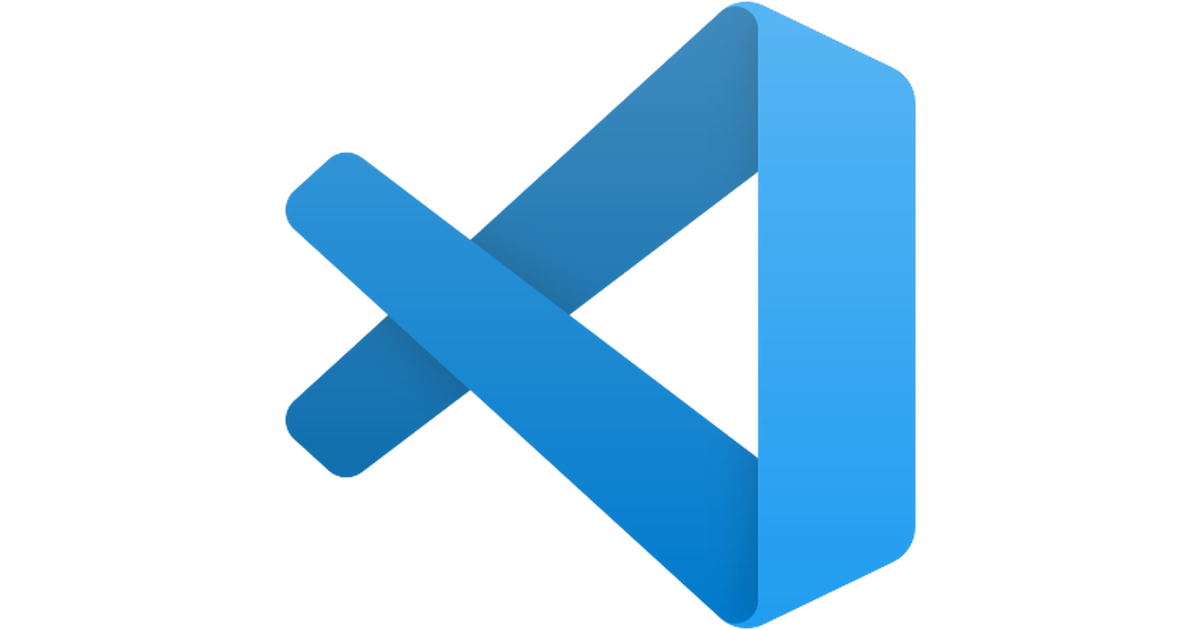
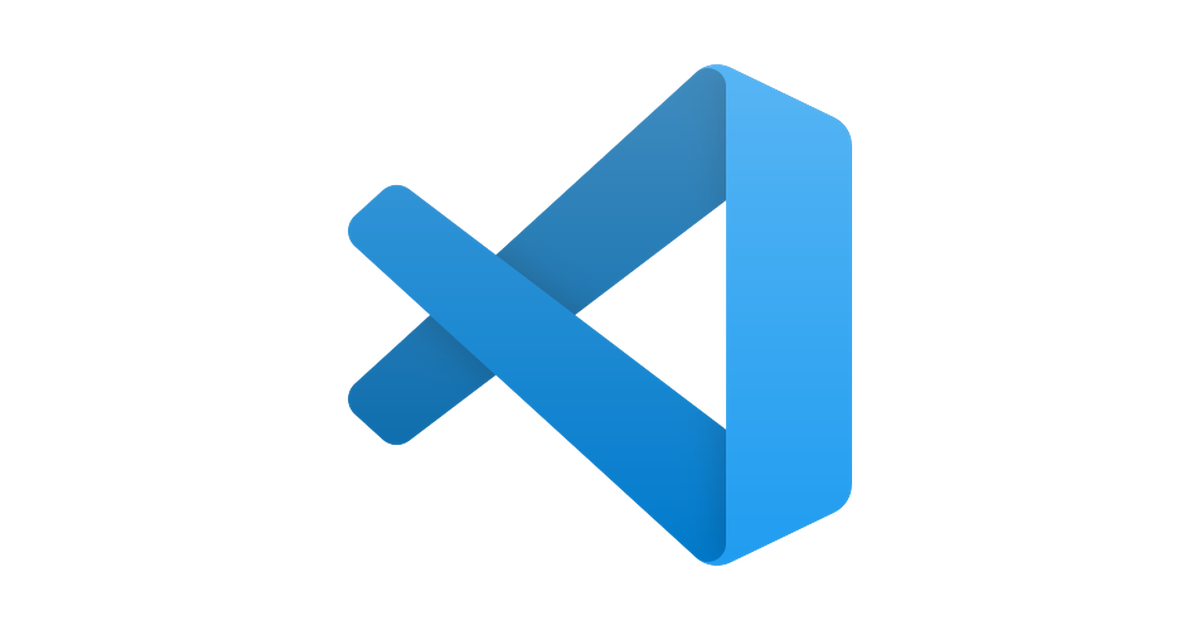
fix: Updated `vscode.png` images dailydevops/website@88256999e9c722867aa7fb56312c9cd134d8630b

diff --git a/tags/vscode/index.html b/tags/vscode/index.html
@@ -1,2 +1,2 @@
-<!doctype html><html class="no-js" lang="en" dir="ltr"><head><meta charset="utf-8"><meta name="viewport" content="width=device-width,initial-scale=1"><meta name="theme-color" content="#15a"><title>Visual Studio Code — Daily DevOps & .NET</title><meta name="description" content="Visual Studio Code"><meta name="twitter:description" property="og:description" content="Visual Studio Code"><meta name="author" content="Daily DevOps"><link rel="icon" href="/logo.svg?v=b9e294dc5c6fa04439c8c803d8e981a9" sizes="any" type="image/svg+xml"><meta name="twitter:title" property="og:title" content="Visual Studio Code — Daily DevOps & .NET"><meta property="og:updated_time" content="2024-12-31T09:35:40+01:00"><meta property="article:modified_time" content="2024-12-31T09:35:40+01:00"><meta property="article:published_time" content="0001-01-01T00:00:00+00:00"><meta property="og:type" content="website"><meta property="og:site_name" content="Daily DevOps & .NET"><meta property="og:url" content="https://daily-devops.net/tags/vscode/"><meta property="og:locale" content="en_US"><meta name="twitter:card" content="summary_large_image"><meta property="og:image" name="twitter:image" content="https://daily-devops.net/images/vscode-1200x630.webp?v=24eac99e39ead37852844e5aeb1904d0"><meta property="og:image:secure_url" content="https://daily-devops.net/images/vscode-1200x630.webp?v=24eac99e39ead37852844e5aeb1904d0"><meta property="og:image:alt" name="twitter:image:alt" content="Visual Studio Code"><meta property="og:image:type" content="image/webp"><meta property="og:image:width" content="1200"><meta property="og:image:height" content="630"><meta property="og:image" name="twitter:image" content="https://daily-devops.net/images/vscode-1200x630.png?v=5538608e404fa428fa1f766580a8c99a"><meta property="og:image:secure_url" content="https://daily-devops.net/images/vscode-1200x630.png?v=5538608e404fa428fa1f766580a8c99a"><meta property="og:image:alt" name="twitter:image:alt" content="Visual Studio Code"><meta property="og:image:type" content="image/png"><meta property="og:image:width" content="1200"><meta property="og:image:height" content="630"><link rel="dns-prefetch" href="https://www.clarity.ms"><link rel="preconnect" href="https://www.clarity.ms" crossorigin><link rel="stylesheet" href="/css/style.min.bd3384c8856830ca9acea97c7aaad6cea2adc40b13c05131543af7ba35a9ef54e279811d27ca92f7acd5086f2e54461b78445d6fa3e9b151f91613876066f037.css" integrity="sha512-vTOEyIVoMMqazql8eqrWzqKtxAsTwFExVDr3ujWp71TieYEdJ8qS96zVCG8uVEYbeERdb6PpsVH5FhOHYGbwNw==" crossorigin="anonymous"><link rel="alternate" href='https://daily-devops.net/tags/vscode/' hreflang="x-default" title="Visual Studio Code &mdash; Daily DevOps & .NET"><link rel="alternate" href="https://daily-devops.net/en/tags/vscode/" hreflang="en-us" title="Visual Studio Code &mdash; Daily DevOps & .NET"><link rel="alternate" href="https://daily-devops.net/de/tags/vscode/" hreflang="en-us" title="Visual Studio Code &mdash; Daily DevOps & .NET"><link rel="canonical" href="https://daily-devops.net/tags/vscode/" hreflang="en-us" title="Visual Studio Code &mdash; Daily DevOps & .NET"><link rel="home" href="https://daily-devops.net/" hreflang="en-us" title="Daily DevOps & .NET"><script defer src="/js/above.min.cb42b2c9a453e49e278326637d72d2f01e7f32e3f91e9cdde8fb587793d05514efd2f5cc5021c9658ca0f73876dbdcd1f7cb4a37c0bebc9df01110926b6d7cba.js" integrity="sha512-y0KyyaRT5J4ngyZjfXLS8B5/MuP5Hpzd6PtYd5PQVRTv0vXMUCHJZYyg9zh229zR98tKN8C+vJ3wERCSa218ug==" crossorigin="anonymous"></script><script type="text/javascript">(function(e,t,n,s,o,i,a){e[n]=e[n]||function(){(e[n].q=e[n].q||[]).push(arguments)},i=t.createElement(s),i.async=1,i.src="https://www.clarity.ms/tag/"+o,a=t.getElementsByTagName(s)[0],a.parentNode.insertBefore(i,a)})(window,document,"clarity","script","o0pr4n9gg3")</script></head><body class="container"><header class="header"><a class="logo" href="/" title="Daily DevOps & .NET" rel="home"><figure class="page-logo"><picture><img src="/logo.svg?v=b9e294dc5c6fa04439c8c803d8e981a9" alt="Daily DevOps & .NET" title="Daily DevOps & .NET"></picture></figure><span class="title">Daily DevOps & .NET</span></a><nav class="menu"><button class="burger" aria-haspopup="true" aria-expanded="false" tabindex="0">
+<!doctype html><html class="no-js" lang="en" dir="ltr"><head><meta charset="utf-8"><meta name="viewport" content="width=device-width,initial-scale=1"><meta name="theme-color" content="#15a"><title>Visual Studio Code — Daily DevOps & .NET</title><meta name="description" content="Visual Studio Code"><meta name="twitter:description" property="og:description" content="Visual Studio Code"><meta name="author" content="Daily DevOps"><link rel="icon" href="/logo.svg?v=b9e294dc5c6fa04439c8c803d8e981a9" sizes="any" type="image/svg+xml"><meta name="twitter:title" property="og:title" content="Visual Studio Code — Daily DevOps & .NET"><meta property="og:updated_time" content="2024-12-31T09:35:40+01:00"><meta property="article:modified_time" content="2024-12-31T09:35:40+01:00"><meta property="article:published_time" content="0001-01-01T00:00:00+00:00"><meta property="og:type" content="website"><meta property="og:site_name" content="Daily DevOps & .NET"><meta property="og:url" content="https://daily-devops.net/tags/vscode/"><meta property="og:locale" content="en_US"><meta name="twitter:card" content="summary_large_image"><meta property="og:image" name="twitter:image" content="https://daily-devops.net/images/vscode-1200x630.webp?v=9f182674aa617c9da5b2950abd7b9408"><meta property="og:image:secure_url" content="https://daily-devops.net/images/vscode-1200x630.webp?v=9f182674aa617c9da5b2950abd7b9408"><meta property="og:image:alt" name="twitter:image:alt" content="Visual Studio Code"><meta property="og:image:type" content="image/webp"><meta property="og:image:width" content="1200"><meta property="og:image:height" content="630"><meta property="og:image" name="twitter:image" content="https://daily-devops.net/images/vscode-1200x630.png?v=ad54321312c5741f0dd52d9980367ea1"><meta property="og:image:secure_url" content="https://daily-devops.net/images/vscode-1200x630.png?v=ad54321312c5741f0dd52d9980367ea1"><meta property="og:image:alt" name="twitter:image:alt" content="Visual Studio Code"><meta property="og:image:type" content="image/png"><meta property="og:image:width" content="1200"><meta property="og:image:height" content="630"><link rel="dns-prefetch" href="https://www.clarity.ms"><link rel="preconnect" href="https://www.clarity.ms" crossorigin><link rel="stylesheet" href="/css/style.min.bd3384c8856830ca9acea97c7aaad6cea2adc40b13c05131543af7ba35a9ef54e279811d27ca92f7acd5086f2e54461b78445d6fa3e9b151f91613876066f037.css" integrity="sha512-vTOEyIVoMMqazql8eqrWzqKtxAsTwFExVDr3ujWp71TieYEdJ8qS96zVCG8uVEYbeERdb6PpsVH5FhOHYGbwNw==" crossorigin="anonymous"><link rel="alternate" href='https://daily-devops.net/tags/vscode/' hreflang="x-default" title="Visual Studio Code &mdash; Daily DevOps & .NET"><link rel="alternate" href="https://daily-devops.net/en/tags/vscode/" hreflang="en-us" title="Visual Studio Code &mdash; Daily DevOps & .NET"><link rel="alternate" href="https://daily-devops.net/de/tags/vscode/" hreflang="en-us" title="Visual Studio Code &mdash; Daily DevOps & .NET"><link rel="canonical" href="https://daily-devops.net/tags/vscode/" hreflang="en-us" title="Visual Studio Code &mdash; Daily DevOps & .NET"><link rel="home" href="https://daily-devops.net/" hreflang="en-us" title="Daily DevOps & .NET"><script defer src="/js/above.min.cb42b2c9a453e49e278326637d72d2f01e7f32e3f91e9cdde8fb587793d05514efd2f5cc5021c9658ca0f73876dbdcd1f7cb4a37c0bebc9df01110926b6d7cba.js" integrity="sha512-y0KyyaRT5J4ngyZjfXLS8B5/MuP5Hpzd6PtYd5PQVRTv0vXMUCHJZYyg9zh229zR98tKN8C+vJ3wERCSa218ug==" crossorigin="anonymous"></script><script type="text/javascript">(function(e,t,n,s,o,i,a){e[n]=e[n]||function(){(e[n].q=e[n].q||[]).push(arguments)},i=t.createElement(s),i.async=1,i.src="https://www.clarity.ms/tag/"+o,a=t.getElementsByTagName(s)[0],a.parentNode.insertBefore(i,a)})(window,document,"clarity","script","o0pr4n9gg3")</script></head><body class="container"><header class="header"><a class="logo" href="/" title="Daily DevOps & .NET" rel="home"><figure class="page-logo"><picture><img src="/logo.svg?v=b9e294dc5c6fa04439c8c803d8e981a9" alt="Daily DevOps & .NET" title="Daily DevOps & .NET"></picture></figure><span class="title">Daily DevOps & .NET</span></a><nav class="menu"><button class="burger" aria-haspopup="true" aria-expanded="false" tabindex="0">
 <i class="fas fa-burger"></i></button><ul class="navigation"><li><a href="/posts/">Posts</a></li><li><a href="/authors/">About us</a></li></ul></nav><div class="divider"></div></header><main class="body"><main class="board" role="main"><header><h1>Visual Studio Code</h1></header></main></main><footer class="footer"><div class="divider"></div><nav><ul class="navigation"><li><a href="/tags/">Tags</a></li><li><a href="/legal-notice/">Legal notice</a></li></ul></nav><div class="copyright">&copy; 2023 - 2025 Daily DevOps & .NET</div></footer><script defer src="/js/below.min.a6ce9164454b6077f17ae856f280442d9f3a1e21f06189f71c21f75144b22a0c8cf32bafd61d440e9d90ca02bf738b6a8ef19f5ec20285d8ca574f98c91ebaf2.js" integrity="sha512-ps6RZEVLYHfxeuhW8oBELZ86HiHwYYn3HCH3UUSyKgyM8yuv1h1EDp2QygK/c4tqjvGfXsIChdjKV0+YyR668g==" crossorigin="anonymous"></script></body></html>

diff --git a/tags/3/index.html b/tags/3/index.html
@@ -1,4 +1,4 @@
 <!doctype html><html class="no-js" lang="en" dir="ltr"><head><meta charset="utf-8"><meta name="viewport" content="width=device-width,initial-scale=1"><meta name="theme-color" content="#15a"><title>Tags Overview — Daily DevOps & .NET</title><meta name="description" content="Browse all content tags on Daily DevOps & .NET - Find articles on software development, DevOps practices, architecture patterns, and modern development tools …"><meta name="twitter:description" property="og:description" content="Browse all content tags on Daily DevOps & .NET - Find articles on software development, DevOps practices, architecture patterns, and modern development tools …"><meta name="author" content="Daily DevOps"><link rel="icon" href="/logo.svg?v=b9e294dc5c6fa04439c8c803d8e981a9" sizes="any" type="image/svg+xml"><meta name="twitter:title" property="og:title" content="Tags Overview — Daily DevOps & .NET"><meta property="og:updated_time" content="2025-10-15T23:53:50+02:00"><meta property="article:modified_time" content="2025-10-15T23:53:50+02:00"><meta property="article:published_time" content="0001-01-01T00:00:00+00:00"><meta property="og:type" content="website"><meta property="og:site_name" content="Daily DevOps & .NET"><meta property="og:url" content="https://daily-devops.net/tags/"><meta property="og:locale" content="en_US"><meta name="twitter:card" content="summary_large_image"><meta property="og:image" name="twitter:image" content="https://daily-devops.net/images/daily-devops-1200x630.webp?v=9502c5feb6413a4c21ca4085d48d5e16"><meta property="og:image:secure_url" content="https://daily-devops.net/images/daily-devops-1200x630.webp?v=9502c5feb6413a4c21ca4085d48d5e16"><meta property="og:image:alt" name="twitter:image:alt" content="Tags Overview"><meta property="og:image:type" content="image/webp"><meta property="og:image:width" content="1200"><meta property="og:image:height" content="630"><meta property="og:image" name="twitter:image" content="https://daily-devops.net/images/daily-devops-1200x630.png?v=82d9f3f742bd4583ff7edd8d94379b2d"><meta property="og:image:secure_url" content="https://daily-devops.net/images/daily-devops-1200x630.png?v=82d9f3f742bd4583ff7edd8d94379b2d"><meta property="og:image:alt" name="twitter:image:alt" content="Tags Overview"><meta property="og:image:type" content="image/png"><meta property="og:image:width" content="1200"><meta property="og:image:height" content="630"><link rel="dns-prefetch" href="https://www.clarity.ms"><link rel="preconnect" href="https://www.clarity.ms" crossorigin><link rel="stylesheet" href="/css/style.min.bd3384c8856830ca9acea97c7aaad6cea2adc40b13c05131543af7ba35a9ef54e279811d27ca92f7acd5086f2e54461b78445d6fa3e9b151f91613876066f037.css" integrity="sha512-vTOEyIVoMMqazql8eqrWzqKtxAsTwFExVDr3ujWp71TieYEdJ8qS96zVCG8uVEYbeERdb6PpsVH5FhOHYGbwNw==" crossorigin="anonymous"><link rel="alternate" href='https://daily-devops.net/tags/' hreflang="x-default" title="Tags Overview &mdash; Daily DevOps & .NET"><link rel="alternate" href="https://daily-devops.net/en/tags/" hreflang="en-us" title="Tags Overview &mdash; Daily DevOps & .NET"><link rel="canonical" href="https://daily-devops.net/tags/" hreflang="en-us" title="Tags Overview &mdash; Daily DevOps & .NET"><link rel="home" href="https://daily-devops.net/" hreflang="en-us" title="Daily DevOps & .NET"><script defer src="/js/above.min.cb42b2c9a453e49e278326637d72d2f01e7f32e3f91e9cdde8fb587793d05514efd2f5cc5021c9658ca0f73876dbdcd1f7cb4a37c0bebc9df01110926b6d7cba.js" integrity="sha512-y0KyyaRT5J4ngyZjfXLS8B5/MuP5Hpzd6PtYd5PQVRTv0vXMUCHJZYyg9zh229zR98tKN8C+vJ3wERCSa218ug==" crossorigin="anonymous"></script><script type="text/javascript">(function(e,t,n,s,o,i,a){e[n]=e[n]||function(){(e[n].q=e[n].q||[]).push(arguments)},i=t.createElement(s),i.async=1,i.src="https://www.clarity.ms/tag/"+o,a=t.getElementsByTagName(s)[0],a.parentNode.insertBefore(i,a)})(window,document,"clarity","script","o0pr4n9gg3")</script></head><body class="container"><header class="header"><a class="logo" href="/" title="Daily DevOps & .NET" rel="home"><figure class="page-logo"><picture><img src="/logo.svg?v=b9e294dc5c6fa04439c8c803d8e981a9" alt="Daily DevOps & .NET" title="Daily DevOps & .NET"></picture></figure><span class="title">Daily DevOps & .NET</span></a><nav class="menu"><button class="burger" aria-haspopup="true" aria-expanded="false" tabindex="0">
-<i class="fas fa-burger"></i></button><ul class="navigation"><li><a href="/posts/">Posts</a></li><li><a href="/authors/">About us</a></li></ul></nav><div class="divider"></div></header><main class="body"><main class="board" role="main"><header><h1>Tags Overview</h1></header><section class="card"><figure class="square"><picture><source srcset="/images/vscode-80x80.webp?v=3601d088cc2520f7dd05cd8bd6bb2bf5" type="image/webp"><source srcset="/images/vscode-80x80.png?v=c46dfb1f81ad62b29a01e67170196a00" type="image/png"><img src="/images/vscode.png?v=e891f48faaf8367e7b65b570c14a8826" alt="Visual Studio Code" loading="lazy" decoding="async" title="Visual Studio Code"></picture></figure><header><h2>Visual Studio Code</h2></header><section class="content">Visual Studio Code</section><a class="link" href="/tags/vscode/" rel="tag" title="Visual Studio Code"></a></section></main><nav class="pagination"><a class="item" href="/tags/2/" ´ hreflang="en-us" title="Tags Overview &mdash; Daily DevOps & .NET &mdash; Page 2" rel="next"><i class="fas fa-backward"></i></a>
+<i class="fas fa-burger"></i></button><ul class="navigation"><li><a href="/posts/">Posts</a></li><li><a href="/authors/">About us</a></li></ul></nav><div class="divider"></div></header><main class="body"><main class="board" role="main"><header><h1>Tags Overview</h1></header><section class="card"><figure class="square"><picture><source srcset="/images/vscode-80x80.webp?v=0932772970cfb1de269ca47d93ab5880" type="image/webp"><source srcset="/images/vscode-80x80.png?v=e05b827b7d628fb074574e09d7f9fdab" type="image/png"><img src="/images/vscode.png?v=b2905255e11f7388cbe77f62f0cf01eb" alt="Visual Studio Code" loading="lazy" decoding="async" title="Visual Studio Code"></picture></figure><header><h2>Visual Studio Code</h2></header><section class="content">Visual Studio Code</section><a class="link" href="/tags/vscode/" rel="tag" title="Visual Studio Code"></a></section></main><nav class="pagination"><a class="item" href="/tags/2/" ´ hreflang="en-us" title="Tags Overview &mdash; Daily DevOps & .NET &mdash; Page 2" rel="next"><i class="fas fa-backward"></i></a>
 <span class="current item">3&nbsp;/&nbsp;3</span>
 <a class="item" rel="prev" disabled><i class="fas fa-forward"></i></a></nav></main><footer class="footer"><div class="divider"></div><nav><ul class="navigation"><li><a href="/tags/">Tags</a></li><li><a href="/legal-notice/">Legal notice</a></li></ul></nav><div class="copyright">&copy; 2023 - 2025 Daily DevOps & .NET</div></footer><script defer src="/js/below.min.a6ce9164454b6077f17ae856f280442d9f3a1e21f06189f71c21f75144b22a0c8cf32bafd61d440e9d90ca02bf738b6a8ef19f5ec20285d8ca574f98c91ebaf2.js" integrity="sha512-ps6RZEVLYHfxeuhW8oBELZ86HiHwYYn3HCH3UUSyKgyM8yuv1h1EDp2QygK/c4tqjvGfXsIChdjKV0+YyR668g==" crossorigin="anonymous"></script></body></html>
